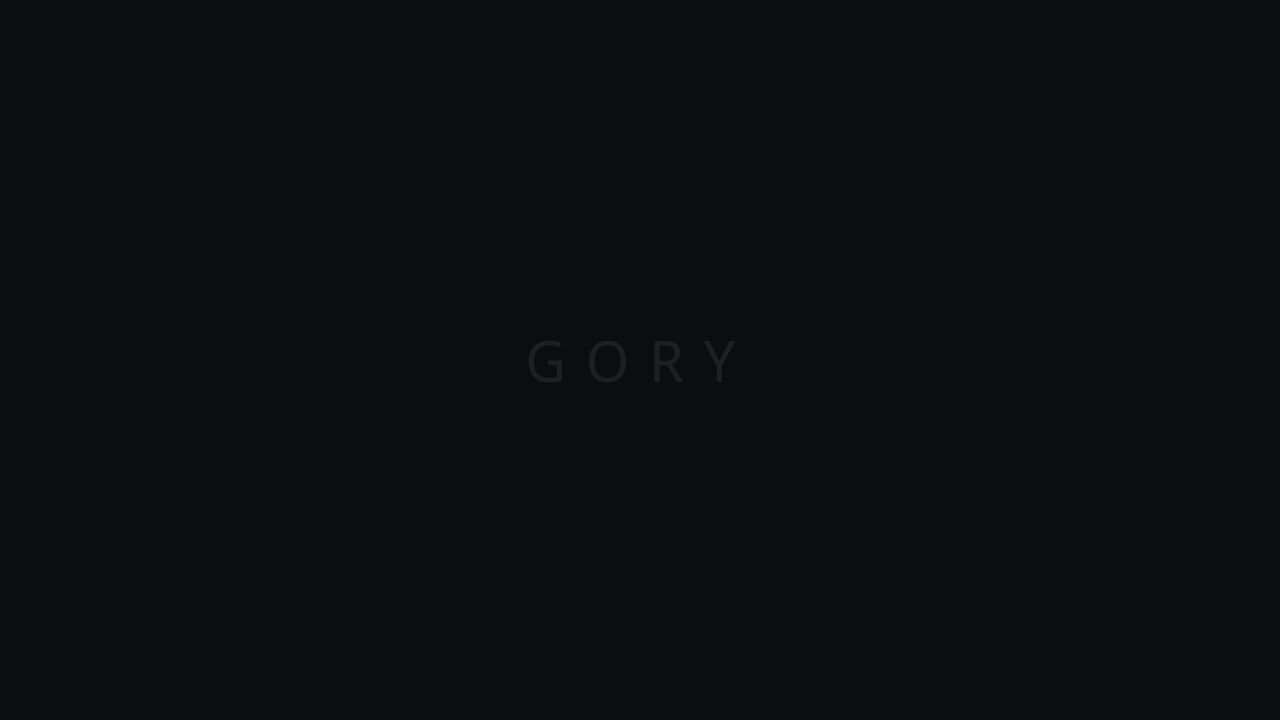
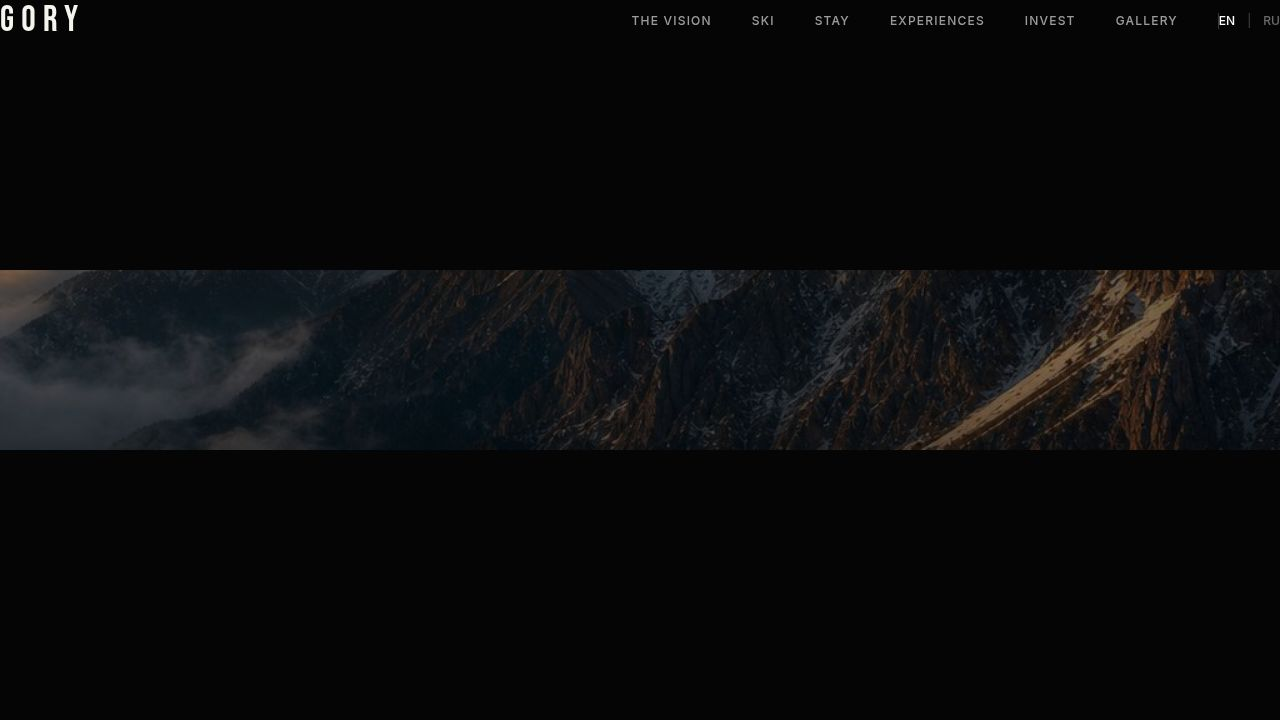
Update website layout and spacing for improved mobile viewing
Refactor various components to use consistent padding, adjust mobile layouts for Vision and Ski sections, and ensure reliable container behavior across the site.

Replit-Commit-Author: Agent
Replit-Commit-Session-Id: 824f3d56-0785-40bb-8965-6605f4326b3d
Replit-Commit-Checkpoint-Type: full_checkpoint
Replit-Commit-Event-Id: b91c4353-e5cc-471a-8887-8f8a47d6388a
Replit-Commit-Screenshot-Url: https://storage.googleapis.com/screenshot-production-us-central1/fa7b8234-bf04-470a-afa7-8d76d4ebbc1a/824f3d56-0785-40bb-8965-6605f4326b3d/hXjo6hr
Replit-Helium-Checkpoint-Created: true

diff --git a/artifacts/gory-resort/src/components/sections/Ski.tsx b/artifacts/gory-resort/src/components/sections/Ski.tsx
@@ -32,11 +32,11 @@ export const Ski = () => {
   ];
 
   return (
-    <section id="ski" className="py-24 bg-background" ref={ref}>
-      <div className="container mx-auto px-6 md:px-12">
+    <section id="ski" className="py-20 bg-background" ref={ref}>
+      <div className="w-full px-8 md:px-12 max-w-screen-xl mx-auto">
         <div className="grid grid-cols-1 lg:grid-cols-2 gap-12 lg:gap-24 items-center">
 
-          {/* Image — grayscale → color on hover, cinematic */}
+          {/* Image — grayscale → color on hover */}
           <motion.div
             className="order-2 lg:order-1 relative aspect-[3/4] lg:aspect-square overflow-hidden"
             initial={{ x: -50, opacity: 0 }}
@@ -58,61 +58,79 @@ export const Ski = () => {
               initial={{ opacity: 0 }}
               animate={isInView ? { opacity: 1 } : {}}
               transition={{ duration: 0.6 }}
-              className="font-mono text-[10px] tracking-[0.3em] text-primary uppercase mb-10"
+              className="font-mono text-[10px] tracking-[0.3em] text-primary uppercase mb-8"
             >
               02 / {t('ski_title')}
             </motion.p>
 
-            {/* Framing statement */}
-            <motion.p
-              initial={{ y: 16, opacity: 0 }}
-              animate={isInView ? { y: 0, opacity: 1 } : { y: 16, opacity: 0 }}
-              transition={{ duration: 0.8, delay: 0.1 }}
-              className="font-serif text-white/55 text-base leading-relaxed mb-10 max-w-sm"
-            >
-              {t('ski_framing')}
-            </motion.p>
+            {/* Framing sentence — hidden on mobile to reduce density */}
+            <div className="hidden md:block">
+              <motion.p
+                initial={{ y: 16, opacity: 0 }}
+                animate={isInView ? { y: 0, opacity: 1 } : { y: 16, opacity: 0 }}
+                transition={{ duration: 0.8, delay: 0.1 }}
+                className="font-serif text-white/55 text-base leading-relaxed mb-10 max-w-sm"
+              >
+                {t('ski_framing')}
+              </motion.p>
+            </div>
 
-            {/* Run categories — editorial numbered rows */}
-            <div className="flex flex-col gap-0 border-t border-white/8">
+            {/* Run categories */}
+            <div className="flex flex-col border-t border-white/8">
               {categories.map((cat, i) => (
                 <motion.div
                   key={i}
                   initial={{ y: 20, opacity: 0 }}
                   animate={isInView ? { y: 0, opacity: 1 } : { y: 20, opacity: 0 }}
                   transition={{ duration: 0.6, delay: 0.2 + i * 0.1 }}
-                  className="group border-b border-white/8 py-5 md:py-6 flex flex-row items-end justify-between hover:border-white/30 transition-colors"
+                  className="group border-b border-white/8 py-4 md:py-6 flex flex-row items-end justify-between hover:border-white/30 transition-colors"
                 >
-                  <div className="flex items-baseline gap-4">
+                  <div className="flex items-baseline gap-3">
                     <span className="font-mono text-[9px] text-primary/60 tracking-widest">0{i + 1}</span>
-                    <h3 className="font-serif text-2xl md:text-5xl text-white/80 group-hover:text-white transition-colors">
+                    <h3 className="font-serif text-xl md:text-5xl text-white/80 group-hover:text-white transition-colors">
                       {t(cat.title)}
                     </h3>
                   </div>
-                  <span className="font-mono text-xs md:text-sm tracking-widest text-muted-foreground group-hover:text-primary transition-colors">
+                  <span className="font-mono text-xs tracking-widest text-muted-foreground group-hover:text-primary transition-colors">
                     {cat.km}
                   </span>
                 </motion.div>
               ))}
             </div>
 
-            {/* Mountain specs */}
+            {/* Specs grid — 2 cols on mobile (only first 4), 3 cols on desktop (all 7) */}
             <motion.div
               initial={{ y: 20, opacity: 0 }}
               animate={isInView ? { y: 0, opacity: 1 } : { y: 20, opacity: 0 }}
               transition={{ duration: 0.8, delay: 0.6 }}
-              className="mt-10 pt-8 border-t border-white/8 grid grid-cols-2 md:grid-cols-3 gap-x-6 gap-y-7"
+              className="mt-8 pt-6 border-t border-white/8"
             >
-              {specs.map((spec, i) => (
-                <div key={i} className="flex flex-col">
-                  <span className="font-display text-xl md:text-2xl text-white mb-1 leading-none">
-                    {t(spec.val)}
-                  </span>
-                  <span className="font-mono text-[9px] text-muted-foreground uppercase tracking-widest leading-tight">
-                    {t(spec.lbl)}
-                  </span>
-                </div>
-              ))}
+              {/* Mobile: show 4 specs */}
+              <div className="grid grid-cols-2 gap-x-6 gap-y-5 md:hidden">
+                {specs.slice(0, 4).map((spec, i) => (
+                  <div key={i} className="flex flex-col">
+                    <span className="font-display text-xl text-white mb-1 leading-none">
+                      {t(spec.val)}
+                    </span>
+                    <span className="font-mono text-[8px] text-muted-foreground uppercase tracking-widest leading-tight">
+                      {t(spec.lbl)}
+                    </span>
+                  </div>
+                ))}
+              </div>
+              {/* Desktop: show all 7 specs */}
+              <div className="hidden md:grid grid-cols-3 gap-x-6 gap-y-7">
+                {specs.map((spec, i) => (
+                  <div key={i} className="flex flex-col">
+                    <span className="font-display text-2xl text-white mb-1 leading-none">
+                      {t(spec.val)}
+                    </span>
+                    <span className="font-mono text-[9px] text-muted-foreground uppercase tracking-widest leading-tight">
+                      {t(spec.lbl)}
+                    </span>
+                  </div>
+                ))}
+              </div>
             </motion.div>
           </div>
 

diff --git a/artifacts/gory-resort/src/components/sections/Vision.tsx b/artifacts/gory-resort/src/components/sections/Vision.tsx
@@ -6,16 +6,13 @@ import { AiAddition } from '../AiAddition';
 const AnimatedNumber = ({ value }: { value: string }) => {
   const numValue = parseInt(value.replace(/,/g, ''), 10);
   const isNumber = !isNaN(numValue);
-
   const spring = useSpring(0, { mass: 1, stiffness: 90, damping: 20 });
   const display = useTransform(spring, (current) =>
     Math.round(current).toLocaleString('en-US'),
   );
-
   useEffect(() => {
     if (isNumber) spring.set(numValue);
   }, [spring, numValue, isNumber]);
-
   if (!isNumber) return <span>{value}</span>;
   return <motion.span>{display}</motion.span>;
 };
@@ -35,21 +32,69 @@ export const Vision = () => {
 
   return (
     <section id="vision" className="py-20 md:py-48 bg-background relative" ref={ref}>
-      <div className="container mx-auto px-6 md:px-12">
+      <div className="w-full px-8 md:px-12 max-w-screen-xl mx-auto">
 
         {/* Editorial section label */}
         <motion.p
           initial={{ opacity: 0 }}
           animate={isInView ? { opacity: 1 } : {}}
           transition={{ duration: 0.6 }}
-          className="font-mono text-[10px] tracking-[0.3em] text-primary uppercase mb-12 md:mb-20"
+          className="font-mono text-[10px] tracking-[0.3em] text-primary uppercase mb-10 md:mb-20"
         >
           01 / {t('vision_title')}
         </motion.p>
 
-        <div className="grid grid-cols-1 lg:grid-cols-12 gap-16 lg:gap-8">
-          {/* Stats Column — 5 stats in a 3-col grid */}
-          <div className="lg:col-span-5 grid grid-cols-2 md:grid-cols-3 gap-x-8 gap-y-12">
+        {/* ── MOBILE LAYOUT ── */}
+        <div className="md:hidden">
+          {/* 3 key stats in a tight row */}
+          <div className="grid grid-cols-3 gap-4 mb-10">
+            {stats.slice(0, 3).map((stat, index) => (
+              <motion.div
+                key={index}
+                initial={{ y: 20, opacity: 0 }}
+                animate={isInView ? { y: 0, opacity: 1 } : { y: 20, opacity: 0 }}
+                transition={{ duration: 0.6, delay: index * 0.1 }}
+                className="flex flex-col"
+              >
+                <span className="font-display text-2xl text-white mb-1 leading-none">
+                  {t(stat.val)}
+                </span>
+                <span className="font-mono text-[8px] text-muted-foreground uppercase tracking-wider leading-tight">
+                  {t(stat.lbl)}
+                </span>
+              </motion.div>
+            ))}
+          </div>
+
+          {/* Divider */}
+          <div className="border-t border-white/10 mb-8" />
+
+          {/* Single punchy sentence */}
+          <motion.p
+            initial={{ y: 16, opacity: 0 }}
+            animate={isInView ? { y: 0, opacity: 1 } : { y: 16, opacity: 0 }}
+            transition={{ duration: 0.7, delay: 0.3 }}
+            className="font-serif text-base text-white/85 leading-relaxed mb-8"
+          >
+            {t('vision_desc_1')}
+          </motion.p>
+
+          {/* Access — one compact line */}
+          <motion.div
+            initial={{ opacity: 0 }}
+            animate={isInView ? { opacity: 1 } : {}}
+            transition={{ duration: 0.6, delay: 0.5 }}
+            className="border-t border-white/8 pt-6"
+          >
+            <p className="font-mono text-[9px] text-white/30 uppercase tracking-[0.2em] mb-1">Access</p>
+            <p className="text-xs text-white/45 leading-relaxed">{t('vision_access')}</p>
+          </motion.div>
+        </div>
+
+        {/* ── DESKTOP LAYOUT ── */}
+        <div className="hidden md:grid grid-cols-12 gap-8">
+          {/* Stats Column */}
+          <div className="col-span-5 grid grid-cols-2 md:grid-cols-3 gap-x-8 gap-y-12">
             {stats.map((stat, index) => (
               <motion.div
                 key={index}
@@ -58,7 +103,7 @@ export const Vision = () => {
                 transition={{ duration: 0.8, delay: index * 0.1 }}
                 className="flex flex-col"
               >
-                <span className="font-display text-3xl md:text-6xl text-white mb-2 leading-none">
+                <span className="font-display text-6xl text-white mb-2 leading-none">
                   {t(stat.val).match(/^\d+(,\d+)*$/) ? (
                     <AnimatedNumber value={t(stat.val)} />
                   ) : (
@@ -73,12 +118,12 @@ export const Vision = () => {
           </div>
 
           {/* Narrative Column */}
-          <div className="lg:col-span-6 lg:col-start-7 flex flex-col justify-center space-y-10">
+          <div className="col-span-6 col-start-7 flex flex-col justify-center space-y-10">
             <motion.p
               initial={{ y: 30, opacity: 0 }}
               animate={isInView ? { y: 0, opacity: 1 } : { y: 30, opacity: 0 }}
               transition={{ duration: 0.8, delay: 0.3 }}
-              className="text-sm md:text-3xl font-serif text-white/90 leading-loose md:leading-relaxed text-balance"
+              className="text-3xl font-serif text-white/90 leading-relaxed text-balance"
             >
               {t('vision_desc_1')}
             </motion.p>
@@ -86,7 +131,7 @@ export const Vision = () => {
               initial={{ y: 30, opacity: 0 }}
               animate={isInView ? { y: 0, opacity: 1 } : { y: 30, opacity: 0 }}
               transition={{ duration: 0.8, delay: 0.5 }}
-              className="text-sm md:text-3xl font-serif text-white/60 leading-loose md:leading-relaxed text-balance"
+              className="text-3xl font-serif text-white/60 leading-relaxed text-balance"
             >
               {t('vision_desc_2')}
             </motion.p>
@@ -99,12 +144,11 @@ export const Vision = () => {
               <p className="font-mono text-[9px] text-white/30 uppercase tracking-[0.25em] mb-2">Access</p>
               <p className="text-sm text-white/50 leading-relaxed">{t('vision_access')}</p>
             </motion.div>
-
             <motion.div
               initial={{ y: 20, opacity: 0 }}
               animate={isInView ? { y: 0, opacity: 1 } : { y: 20, opacity: 0 }}
               transition={{ duration: 0.8, delay: 0.9 }}
-              className="hidden md:block border-t border-white/10 pt-8"
+              className="border-t border-white/10 pt-8"
             >
               <p className="font-mono text-[9px] text-white/30 uppercase tracking-[0.25em] mb-3">
                 {t('vision_why_georgia_label')}
@@ -113,6 +157,7 @@ export const Vision = () => {
             </motion.div>
           </div>
         </div>
+
         <AiAddition sectionKey="vision_ai" />
       </div>
     </section>

diff --git a/artifacts/gory-resort/src/components/Footer.tsx b/artifacts/gory-resort/src/components/Footer.tsx
@@ -6,7 +6,7 @@ export const Footer = () => {
 
   return (
     <footer className="bg-background border-t border-white/10 py-12">
-      <div className="container mx-auto px-6 md:px-12 flex flex-col md:flex-row items-center justify-between gap-6 md:gap-0">
+      <div className="w-full px-8 md:px-12 max-w-screen-xl mx-auto flex flex-col md:flex-row items-center justify-between gap-6 md:gap-0">
         
         <div className="text-xs text-white/40 uppercase tracking-widest">
           © 2027 GORY RESORT. ALL RIGHTS RESERVED.

diff --git a/artifacts/gory-resort/src/components/Navigation.tsx b/artifacts/gory-resort/src/components/Navigation.tsx
@@ -66,7 +66,7 @@ export const Navigation = () => {
             : 'bg-transparent py-8'
         }`}
       >
-        <div className="container mx-auto px-6 md:px-12 flex items-center justify-between">
+        <div className="w-full px-8 md:px-12 max-w-screen-xl mx-auto flex items-center justify-between">
           <div
             className="font-display text-4xl tracking-[0.2em] cursor-pointer"
             onClick={() => window.scrollTo({ top: 0, behavior: 'smooth' })}

diff --git a/artifacts/gory-resort/src/components/PressStrip.tsx b/artifacts/gory-resort/src/components/PressStrip.tsx
@@ -32,7 +32,7 @@ export const PressStrip = () => {
 
   return (
     <section id="press" ref={ref} className="py-12 border-y border-white/5 bg-black/30">
-      <div className="container mx-auto px-6 md:px-12">
+      <div className="w-full px-8 md:px-12 max-w-screen-xl mx-auto">
         <motion.p
           initial={{ opacity: 0 }}
           animate={isInView ? { opacity: 1 } : { opacity: 0 }}

diff --git a/artifacts/gory-resort/src/components/sections/Contact.tsx b/artifacts/gory-resort/src/components/sections/Contact.tsx
@@ -29,7 +29,7 @@ export const Contact = () => {
 
   return (
     <section id="contact" className="py-20 md:py-32 bg-card border-t border-white/5" ref={ref}>
-      <div className="container mx-auto px-6 md:px-12">
+      <div className="w-full px-8 md:px-12 max-w-screen-xl mx-auto">
         <div className="grid grid-cols-1 lg:grid-cols-2 gap-10 lg:gap-20">
 
           {/* Info Column */}

diff --git a/artifacts/gory-resort/src/components/sections/Experiences.tsx b/artifacts/gory-resort/src/components/sections/Experiences.tsx
@@ -18,7 +18,7 @@ export const Experiences = () => {
 
   return (
     <section id="experiences" className="py-20 bg-card scroll-mt-16" ref={ref}>
-      <div className="container mx-auto px-6 md:px-12">
+      <div className="w-full px-8 md:px-12 max-w-screen-xl mx-auto">
         <div className="flex flex-col md:flex-row gap-16 md:gap-24">
 
           <div className="w-full md:w-1/3 flex flex-col justify-center">

diff --git a/artifacts/gory-resort/src/components/sections/Gallery.tsx b/artifacts/gory-resort/src/components/sections/Gallery.tsx
@@ -124,7 +124,7 @@ export const Gallery = () => {
 
   return (
     <section id="gallery" className="py-24 md:py-32 bg-background" ref={ref}>
-      <div className="container mx-auto px-6 md:px-12">
+      <div className="w-full px-8 md:px-12 max-w-screen-xl mx-auto">
 
         {/* Section header — Cinematic Noir editorial style */}
         <div className="flex items-end justify-between mb-10 md:mb-14 border-b border-white/8 pb-6">

diff --git a/artifacts/gory-resort/src/components/sections/Investment.tsx b/artifacts/gory-resort/src/components/sections/Investment.tsx
@@ -51,7 +51,7 @@ export const Investment = () => {
         <div className="absolute inset-0 bg-black/82 backdrop-blur-[2px]" />
       </motion.div>
 
-      <div className="relative z-10 container mx-auto px-6 md:px-12">
+      <div className="relative z-10 w-full px-8 md:px-12 max-w-screen-xl mx-auto">
 
         {/* Section label */}
         <motion.p

diff --git a/artifacts/gory-resort/src/components/sections/Stay.tsx b/artifacts/gory-resort/src/components/sections/Stay.tsx
@@ -23,7 +23,7 @@ export const Stay = () => {
 
   return (
     <section id="stay" className="py-20 md:py-48 bg-background relative" ref={ref}>
-      <div className="container mx-auto px-6 md:px-12">
+      <div className="w-full px-8 md:px-12 max-w-screen-xl mx-auto">
 
         {/* Editorial section label */}
         <motion.p